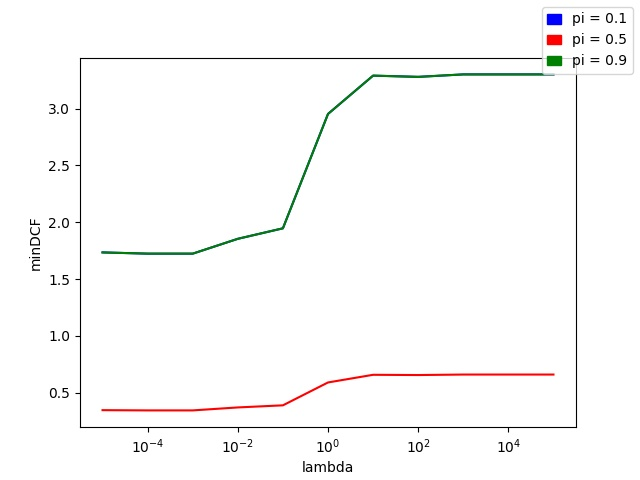
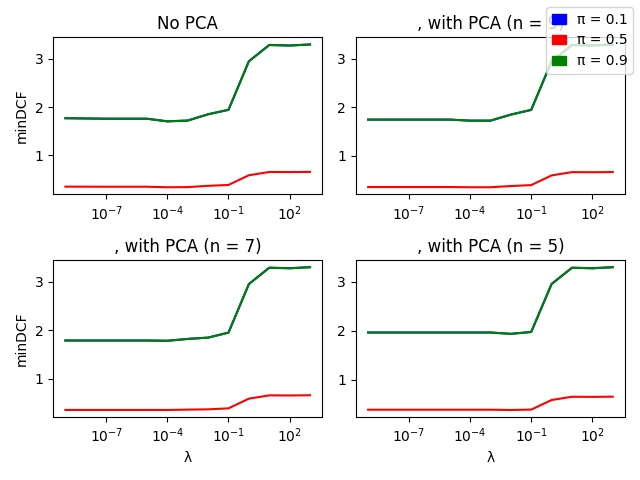
Unified LogReg files, made lambda vs minDCF

diff --git a/code/LogReg.py b/code/LogReg.py
@@ -27,70 +27,87 @@ def latex(toprint):
     f.close()
 
 
-def plot_lambda_minDCF(dataset):
-    lambdas = np.logspace(-5, 5, 11)
+def plot_PCA_lambda_minDCF(dataset, tag=None):
+    r, c = dataset[:-1].shape
+    lambdas = np.logspace(-9, 3, 13)
     dcfs = np.empty(len(lambdas))
     priors = [.1, .5, .9]
     brg = ['b', 'r', 'g']
-    patches = [ptc.Patch(color=c, label=f"pi = {p}")for p, c in zip(priors, brg)]
-    _, folds = utils.kfold(dataset, n=5)
+    patches = [ptc.Patch(color=c, label=f"π = {p}") for p, c in zip(priors, brg)]
+    nPCA = [11, 9, 7, 5]
+    fig, axs = plt.subplots(2, 2)
+    fig.legend(handles=patches, handlelength=1, loc='upper right')
+    plots = [(0, 0), (0, 1), (1, 0), (1, 1)]
+    
+    for ax in axs.flat:
+        ax.set(xlabel='λ', ylabel='minDCF', xscale='log')
+    
+    axs[0, 0].set_xlabel(None)
+    axs[0, 1].set_xlabel(None)
+    axs[0, 1].set_ylabel(None)
+    axs[1, 1].set_ylabel(None)
 
-    plt.figure()
-    plt.xlabel('lambda')
-    plt.xscale('log')
-    plt.ylabel('minDCF')
-    for i, p in enumerate(priors):
-        for j, l in enumerate(lambdas):
-            print(f"Computing for p = {p}, l = {l}")
-            tot_scores = []
-            tot_label = []
-            for fold in folds:
-                trdata = fold[0]
-                tedata = fold[1]
-                w, b = logreg(trdata, l)
-                scores, _, _ = logreg_scores(tedata, w, b)
-                tot_scores.append(scores)
-                tot_label.append(tedata[-1])
-            tot_scores = np.concatenate(tot_scores)
-            tot_label = np.concatenate(tot_label)
-            dcfs[j] = utils.min_DCF(tot_scores, tot_label, p)
-        plt.plot(lambdas, dcfs, brg[i])
-    plt.figlegend(handles=patches, handlelength=1, loc='upper right')
-    plt.savefig('../img/logreg_lambda_minDCF.jpg', format='jpg')
+    for n, ax in zip(nPCA, axs.flat):
+        reduced_dataset = utils.reduce_dataset(dataset, n=n)
+        _, folds = utils.kfold(reduced_dataset, n=5)
+        ax.set_title(f", with PCA (n = {n})" if n < r else "No PCA")
+        for i, p in enumerate(priors):
+            for j, l in enumerate(lambdas):
+                print(f"Computing for n = {n}, p = {p}, l = {l}")
+                tot_scores = []
+                tot_label = []
+                for fold in folds:
+                    trdata = fold[0]
+                    tedata = fold[1]
+                    w, b = logreg(trdata, l)
+                    scores, _, _ = logreg_scores(tedata, w, b)
+                    tot_scores.append(scores)
+                    tot_label.append(tedata[-1])
+                tot_scores = np.concatenate(tot_scores)
+                tot_label = np.concatenate(tot_label)
+                dcfs[j] = utils.min_DCF(tot_scores, tot_label, p)
+            ax.plot(lambdas, dcfs, color=brg[i])
+
+    fig.tight_layout()
+    plt.show(block=False)
+    fig.savefig('../img/' + 'logreg_lambda_minDCF.jpg', format='jpg')
 
 
 if __name__ == '__main__':
-    plot_lambda_minDCF(utils.load_train_data())
-    def tmp():
-        trdataset = utils.load_train_data()
-        tedataset = utils.load_test_data()
-        _, folds = utils.kfold(trdataset, n=5)
-        toprint = []
-        lambdas = [0, 10**-9, 10**-6, 10**-3, 0.1]
-        priors = [.1, .50, .9]
-        tot_scores = []
-        tot_labels = []
-        for fold in folds:
-            trdata = fold[0]
-            tedata = fold[1]
-            telabel = fold[1][-1, :]
-            for l in lambdas:
-                print(f"Computing for lambda: {l}")
-                w, b = logreg(trdata, l)
-                scores, _, _ = logreg_scores(tedata, w, b)
-                tot_scores.append(scores)
-                tot_labels.append(telabel)
-        scores = np.concatenate(tot_scores)
-        labels = np.concatenate(tot_labels)
-        
-        dcfs, ers = [], []
-        for prior in priors:
-            t = - np.log( prior / (1-prior))
-            pscores = scores > t
-            er = (pscores != labels).sum() / len(labels)
-            dcf, _ = utils.DCF(pscores, labels, prior_t=prior)
-            dcfs.append(dcf)
-            ers.append(er)
-            print(er)
-        toprint.append((dcfs, ers, priors))
-        latex(toprint)
+
+    dataset = utils.load_train_data()
+    plot_PCA_lambda_minDCF(dataset)
+
+    #def tmp():
+    #    trdataset = utils.load_train_data()
+    #    tedataset = utils.load_test_data()
+    #    _, folds = utils.kfold(trdataset, n=5)
+    #    toprint = []
+    #    lambdas = [0, 10**-9, 10**-6, 10**-3, 0.1]
+    #    priors = [.1, .50, .9]
+    #    tot_scores = []
+    #    tot_labels = []
+    #    for fold in folds:
+    #        trdata = fold[0]
+    #        tedata = fold[1]
+    #        telabel = fold[1][-1, :]
+    #        for l in lambdas:
+    #            print(f"Computing for lambda: {l}")
+    #            w, b = logreg(trdata, l)
+    #            scores, _, _ = logreg_scores(tedata, w, b)
+    #            tot_scores.append(scores)
+    #            tot_labels.append(telabel)
+    #    scores = np.concatenate(tot_scores)
+    #    labels = np.concatenate(tot_labels)
+    #    
+    #    dcfs, ers = [], []
+    #    for prior in priors:
+    #        t = - np.log( prior / (1-prior))
+    #        pscores = scores > t
+    #        er = (pscores != labels).sum() / len(labels)
+    #        dcf, _ = utils.DCF(pscores, labels, prior_t=prior)
+    #        dcfs.append(dcf)
+    #        ers.append(er)
+    #        print(er)
+    #    toprint.append((dcfs, ers, priors))
+    #    latex(toprint)

diff --git a/code/classifiers.py b/code/classifiers.py
@@ -16,12 +16,15 @@ def logreg(dataset: np.ndarray, l: float=10**-3) -> tuple[np.ndarray, float]:
         w, b = v[:-1], v[-1]
         w = mcol(w)
         # computes objective function
-        partial = (labels*np.log1p(np.exp(- np.dot(w.T, data) - b)) + (1 - labels)*np.log1p(np.exp(np.dot(w.T, data) + b))).sum(axis=1) /data.shape[1] + l/2*np.dot(w.T, w).flatten()
+        tmp = np.dot(w.T, data) + b
+        #first = np.exp(-tmp)
+        #second = np.exp(tmp)
+        partial = (labels*np.logaddexp(0, -tmp) + (1 - labels)*np.logaddexp(0, tmp)).sum(axis=1) /data.shape[1] + l/2*np.dot(w.T, w).flatten()
 
         return partial
 
     v0 = np.zeros(data.shape[0] + 1)
-    v, _, _ = scipy.optimize.fmin_l_bfgs_b(logreg_obj, v0, approx_grad=True, factr=0)
+    v, _, _ = scipy.optimize.fmin_l_bfgs_b(logreg_obj, v0, approx_grad=True, factr=1.0)
     return v[:-1], v[-1]
 
 def logreg_scores(evaluation_dataset: np.ndarray, w: np.ndarray, b: float) -> tuple[np.ndarray, np.ndarray, float]:

diff --git a/code/test.py b/code/test.py
@@ -1,0 +1,24 @@
+import matplotlib.pyplot as plt
+import numpy as np
+x0, y0 = np.linspace(0, 100), np.linspace(0, 100)
+x1, y1 = np.linspace(-50, 50), np.linspace(-50, 50)
+fig, axs = plt.subplots(2, 2)
+axs[0, 0].plot(x0, y0)
+axs[0, 0].set_title('Axis [0, 0]')
+axs[0, 1].plot(x1, y1, 'tab:orange')
+axs[0, 1].set_title('Axis [0, 1]')
+axs[1, 0].plot(x1, -y1, 'tab:green')
+axs[1, 0].set_title('Axis [1, 0]')
+axs[1, 1].plot(x0, -y0, 'tab:red')
+axs[1, 1].set_title('Axis [1, 1]')
+
+for ax in axs.flat:
+    ax.set(xlabel='x-label', ylabel='y-label')
+
+# Hide x labels and tick labels for top plots and y ticks for right plots.
+axs[0, 0].set_xlabel(None)
+axs[0, 1].set_xlabel(None)
+axs[0, 1].set_ylabel(None)
+axs[1, 1].set_ylabel(None)
+plt.tight_layout()
+plt.show()

diff --git a/code/utils.py b/code/utils.py
@@ -80,6 +80,16 @@ def PCA(dataset: np.ndarray, feat_label: bool = True) -> Tuple[np.ndarray, np.nd
 
     return w, v
 
+def reduce_dataset(dataset, n=None):
+    samples, labels = dataset[:-1], dataset[-1]
+    r, c = samples.shape
+    if n == None:
+        n = r
+    _, v = PCA(samples, feat_label=False)
+    vt = v[:, :n]
+    reduced_samples = vt.T @ samples
+    reduced_dataset = np.vstack([reduced_samples, labels])
+    return reduced_dataset
 
 def get_patches() -> List[ptc.Patch]:
     '''
